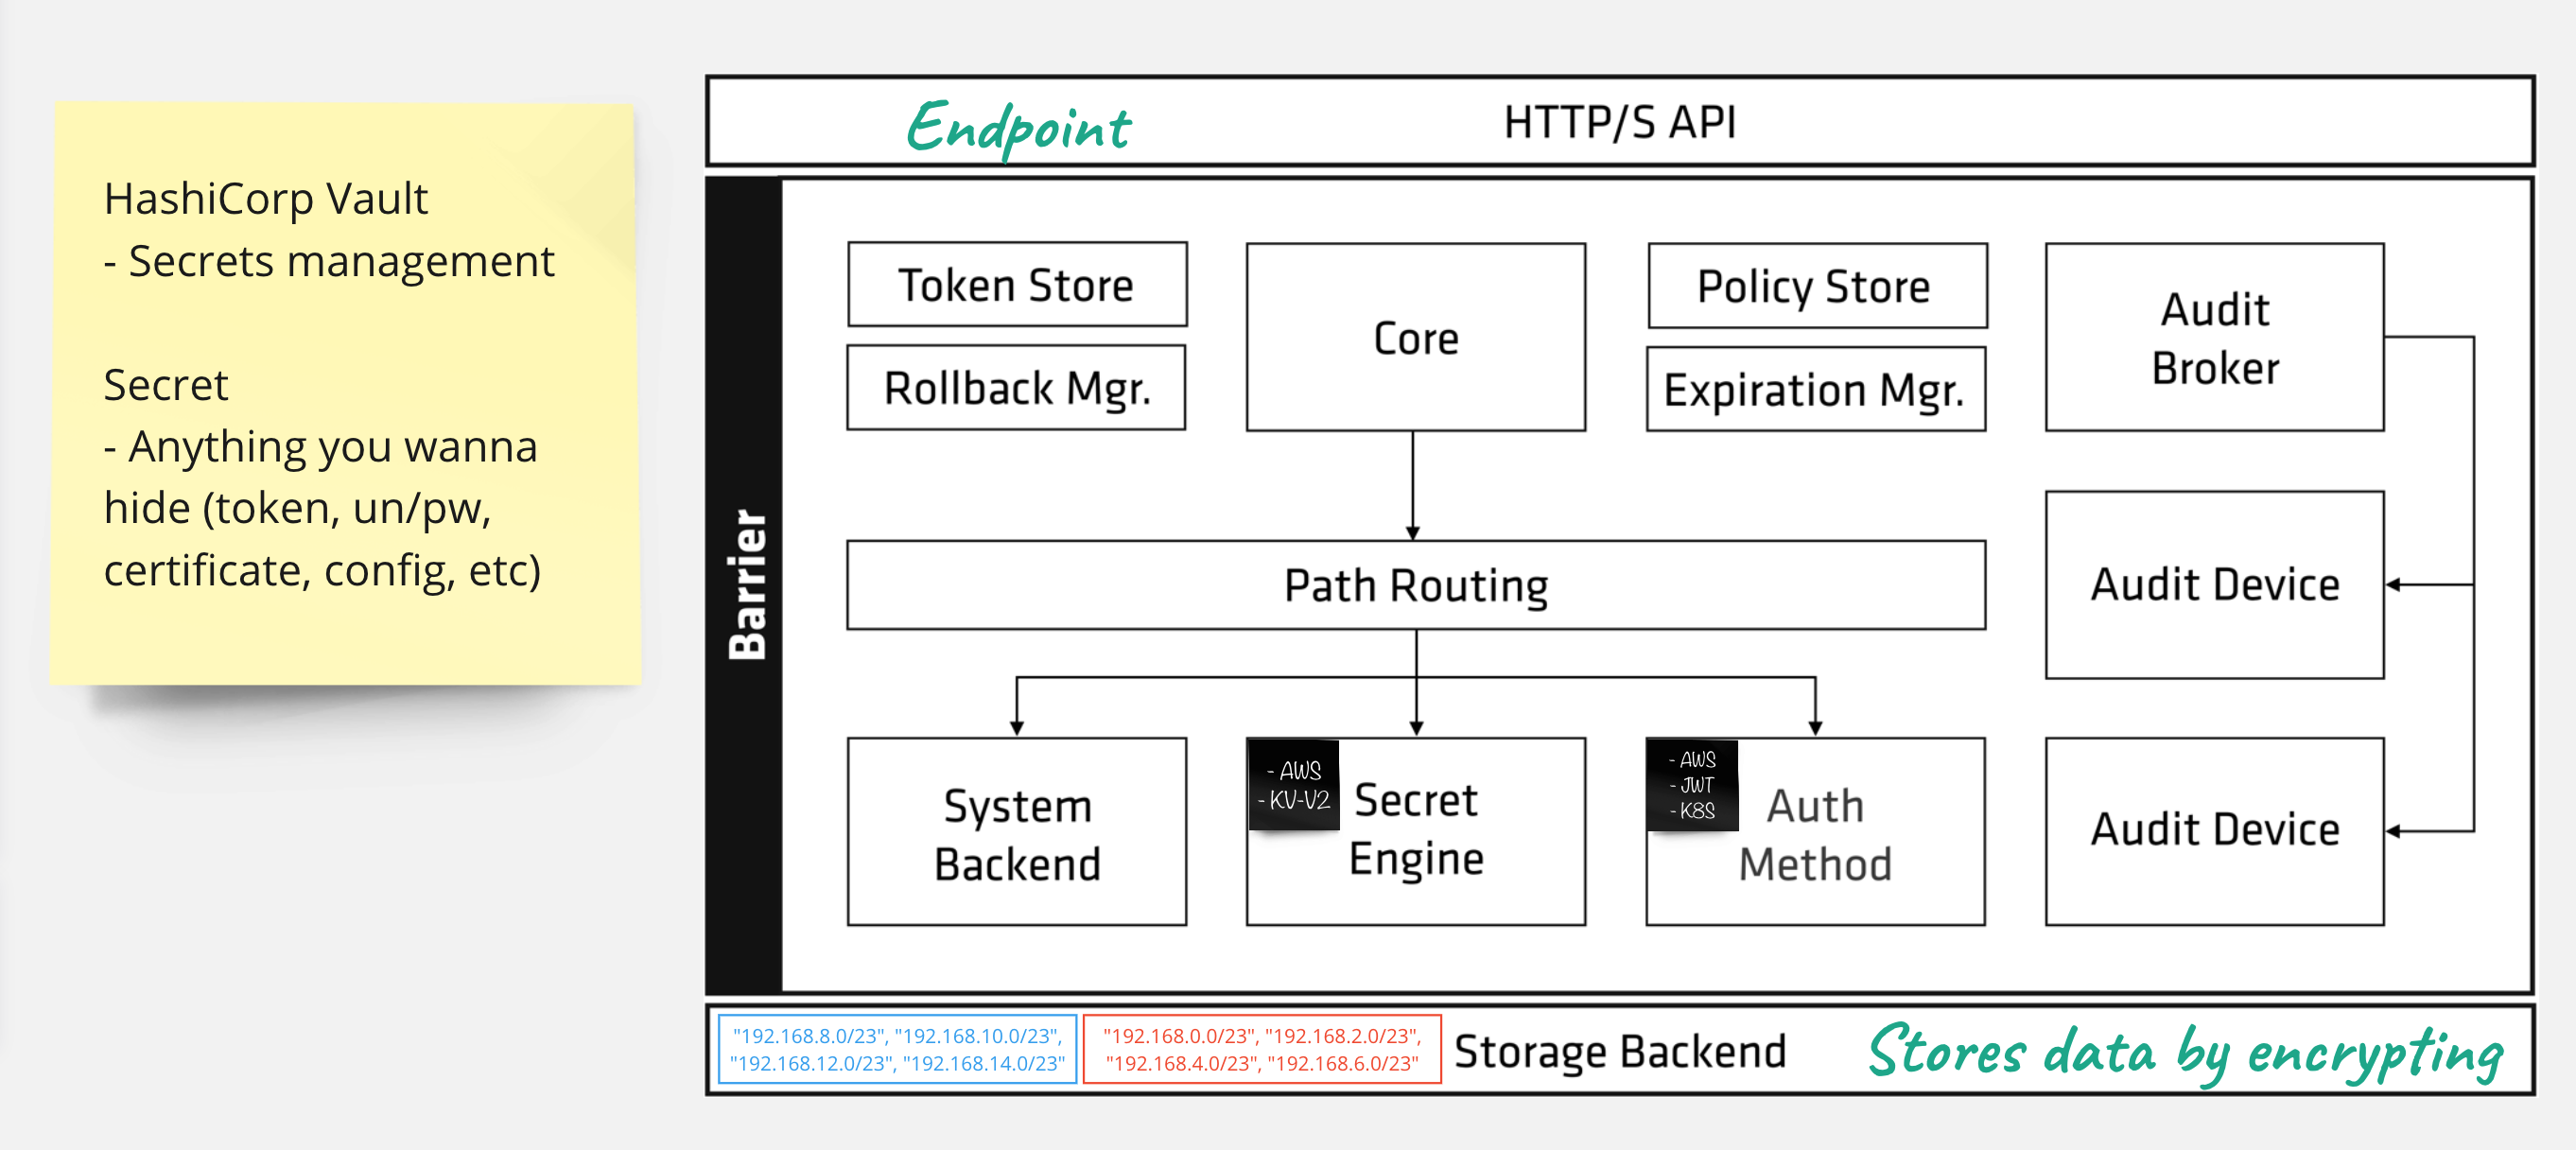
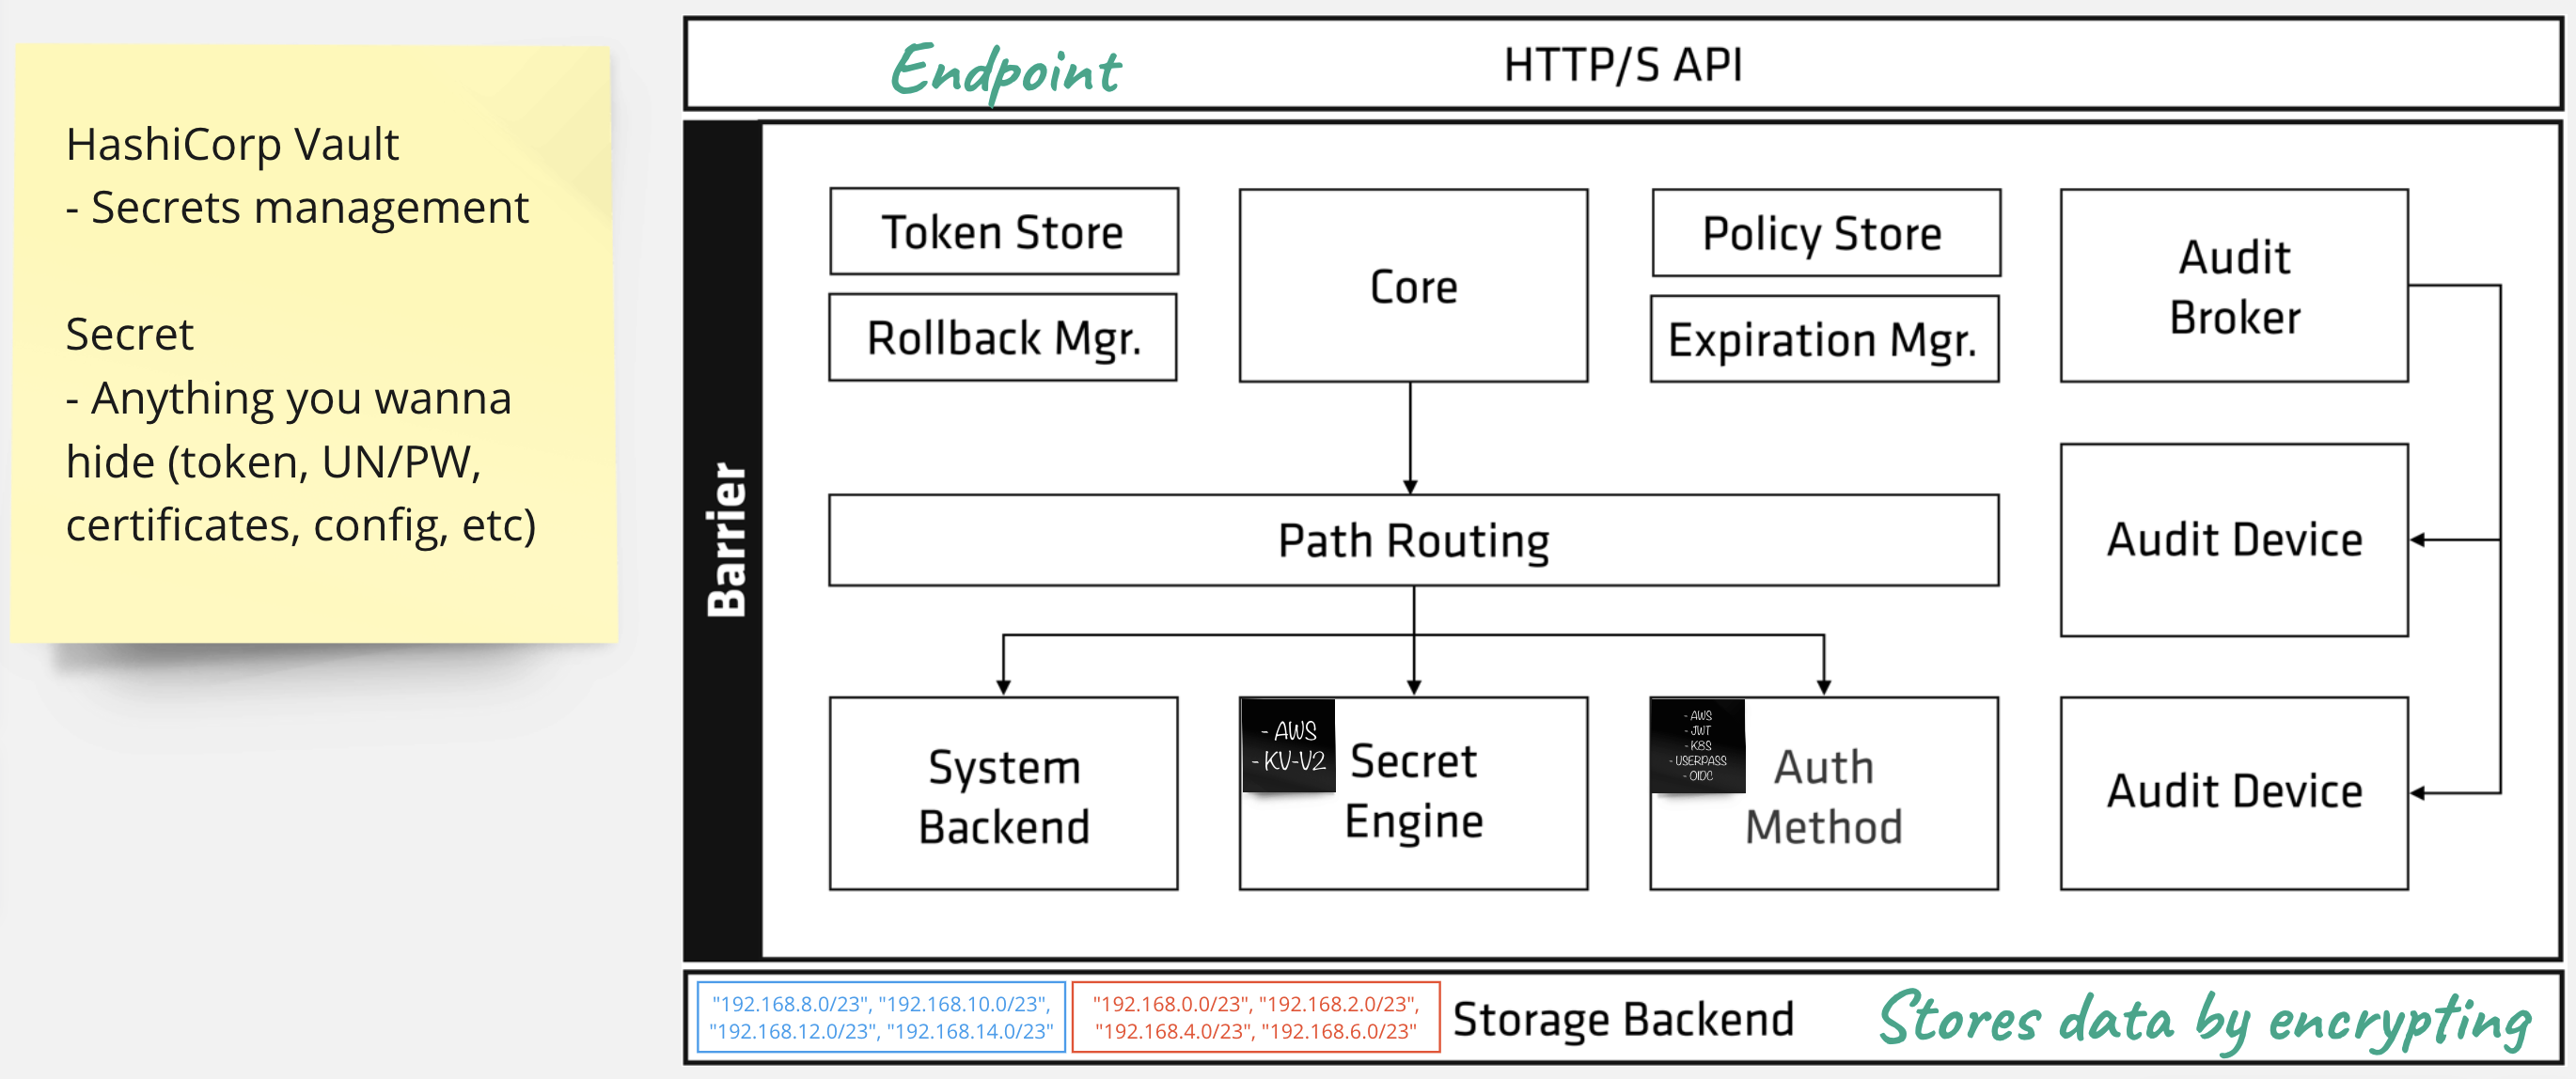
add: auth backend

Changed region(s): [[0.0, 0.0, 0.9985, 1.0], [0.5305, 0.2439, 0.5617, 0.3049]]

diff --git a/README.md b/README.md
@@ -5,9 +5,10 @@
 
 ### Auth Methods
 
+- USERPASS (UI)
+- OIDC (UI)
 - AWS
 - JWT (GitLab, GitHub)
-- USERPASS
 - KUBERNETES
 
 ### Secrets Engines
@@ -51,11 +52,15 @@ No modules.
 | [vault_aws_secret_backend_role.this](https://registry.terraform.io/providers/hashicorp/vault/latest/docs/resources/aws_secret_backend_role) | resource |
 | [vault_aws_secret_backend_role.user](https://registry.terraform.io/providers/hashicorp/vault/latest/docs/resources/aws_secret_backend_role) | resource |
 | [vault_generic_endpoint.users](https://registry.terraform.io/providers/hashicorp/vault/latest/docs/resources/generic_endpoint) | resource |
+| [vault_identity_group.oidc](https://registry.terraform.io/providers/hashicorp/vault/latest/docs/resources/identity_group) | resource |
+| [vault_identity_group_alias.oidc](https://registry.terraform.io/providers/hashicorp/vault/latest/docs/resources/identity_group_alias) | resource |
 | [vault_jwt_auth_backend.gh](https://registry.terraform.io/providers/hashicorp/vault/latest/docs/resources/jwt_auth_backend) | resource |
+| [vault_jwt_auth_backend.oidc](https://registry.terraform.io/providers/hashicorp/vault/latest/docs/resources/jwt_auth_backend) | resource |
 | [vault_jwt_auth_backend.this](https://registry.terraform.io/providers/hashicorp/vault/latest/docs/resources/jwt_auth_backend) | resource |
 | [vault_jwt_auth_backend_role.account](https://registry.terraform.io/providers/hashicorp/vault/latest/docs/resources/jwt_auth_backend_role) | resource |
 | [vault_jwt_auth_backend_role.actions](https://registry.terraform.io/providers/hashicorp/vault/latest/docs/resources/jwt_auth_backend_role) | resource |
 | [vault_jwt_auth_backend_role.actions_sec](https://registry.terraform.io/providers/hashicorp/vault/latest/docs/resources/jwt_auth_backend_role) | resource |
+| [vault_jwt_auth_backend_role.oidc](https://registry.terraform.io/providers/hashicorp/vault/latest/docs/resources/jwt_auth_backend_role) | resource |
 | [vault_jwt_auth_backend_role.secret](https://registry.terraform.io/providers/hashicorp/vault/latest/docs/resources/jwt_auth_backend_role) | resource |
 | [vault_kubernetes_auth_backend_config.kubernetes](https://registry.terraform.io/providers/hashicorp/vault/latest/docs/resources/kubernetes_auth_backend_config) | resource |
 | [vault_kubernetes_auth_backend_role.kubernetes](https://registry.terraform.io/providers/hashicorp/vault/latest/docs/resources/kubernetes_auth_backend_role) | resource |
@@ -69,6 +74,7 @@ No modules.
 |------|-------------|------|---------|:--------:|
 | <a name="input_access_key"></a> [access\_key](#input\_access\_key) | AWS Assumed Role access key | `string` | `"ACCESS_KEY"` | no |
 | <a name="input_access_key_user"></a> [access\_key\_user](#input\_access\_key\_user) | AWS Access Key with necessary permissions | `string` | `"ACCESS_KEY"` | no |
+| <a name="input_allowed_redirect_uris"></a> [allowed\_redirect\_uris](#input\_allowed\_redirect\_uris) | A list of allowed values for `redirect_uri` during OIDC logins | `list(string)` | <pre>[<br>  "http://localhost:8250/oidc/callback"<br>]</pre> | no |
 | <a name="input_auth_backend_role"></a> [auth\_backend\_role](#input\_auth\_backend\_role) | Role that will be used by Vault authenticating AWS | <pre>map(object({<br>    account_id = number<br>    sts_role   = string<br>  }))</pre> | <pre>{<br>  "key": {<br>    "account_id": 123456789012,<br>    "sts_role": "arn:aws:iam::123456789012:role/ROLE_NAME"<br>  }<br>}</pre> | no |
 | <a name="input_auth_backend_role_user"></a> [auth\_backend\_role\_user](#input\_auth\_backend\_role\_user) | If enabled, This Role that will be used by Vault authenticating and performing necessary actions | <pre>map(object({<br>    account_id = number<br>    sts_role   = string<br>  }))</pre> | <pre>{<br>  "key": {<br>    "account_id": 13456789012,<br>    "sts_role": "value"<br>  }<br>}</pre> | no |
 | <a name="input_aws_auth_path"></a> [aws\_auth\_path](#input\_aws\_auth\_path) | AWS Authentication Methods path | `string` | `"aws"` | no |
@@ -102,6 +108,7 @@ No modules.
 | <a name="input_delete_version_after"></a> [delete\_version\_after](#input\_delete\_version\_after) | Old secrets version will be deleted after this seconds (7 days) | `number` | `604800` | no |
 | <a name="input_enabled_gh_jwt_backend"></a> [enabled\_gh\_jwt\_backend](#input\_enabled\_gh\_jwt\_backend) | Enable GitHub JWT Auth Method or not | `bool` | n/a | yes |
 | <a name="input_enabled_gl_jwt_backend"></a> [enabled\_gl\_jwt\_backend](#input\_enabled\_gl\_jwt\_backend) | Enable GitLab JWT Auth Method or not | `bool` | n/a | yes |
+| <a name="input_enabled_oidc_backend"></a> [enabled\_oidc\_backend](#input\_enabled\_oidc\_backend) | Enable OIDC Auth Method or not | `bool` | n/a | yes |
 | <a name="input_gh_acc_bound_aud"></a> [gh\_acc\_bound\_aud](#input\_gh\_acc\_bound\_aud) | URL of the repository owner, eg: `https://github.com/OWNER`, such as the organization that owns the repository. This is the only claim that can be customized | `list(string)` | <pre>[<br>  ""<br>]</pre> | no |
 | <a name="input_gh_acc_bound_claims"></a> [gh\_acc\_bound\_claims](#input\_gh\_acc\_bound\_claims) | https://docs.github.com/en/actions/deployment/security-hardening-your-deployments/about-security-hardening-with-openid-connect#understanding-the-oidc-token | <pre>map(object({<br>    role_name     = string<br>    bound_claims  = optional(map(string))<br>    token_ttl     = number<br>    token_max_ttl = number<br>  }))</pre> | <pre>{<br>  "key1": {<br>    "bound_claims": {<br>      "": ""<br>    },<br>    "role_name": "value",<br>    "token_max_ttl": 600,<br>    "token_ttl": 300<br>  }<br>}</pre> | no |
 | <a name="input_gh_acc_bound_sub"></a> [gh\_acc\_bound\_sub](#input\_gh\_acc\_bound\_sub) | Defines the subject claim that is to be validated by the cloud provider | `string` | `""` | no |
@@ -118,6 +125,7 @@ No modules.
 | <a name="input_gl_jwt_token_type"></a> [gl\_jwt\_token\_type](#input\_gl\_jwt\_token\_type) | `service` token or `batch` token? Default is `service` token | `string` | `"service"` | no |
 | <a name="input_gl_secret_bound_claims"></a> [gl\_secret\_bound\_claims](#input\_gl\_secret\_bound\_claims) | JWT/OIDC auth Method role for Secrets values in a Vault server | <pre>map(object({<br>    role_name    = string<br>    bound_claims = map(string)<br>  }))</pre> | <pre>{<br>  "key": {<br>    "bound_claims": {<br>      "project_id": "123123",<br>      "ref": "main,develop",<br>      "ref_type": "branch"<br>    },<br>    "role_name": "reader-role"<br>  }<br>}</pre> | no |
 | <a name="input_gl_secret_token_policies"></a> [gl\_secret\_token\_policies](#input\_gl\_secret\_token\_policies) | Secrets policy name | `list(string)` | <pre>[<br>  "read-acc_b_creds"<br>]</pre> | no |
+| <a name="input_group_alias_name"></a> [group\_alias\_name](#input\_group\_alias\_name) | Name of the group alias | `string` | `"OIDCAuth"` | no |
 | <a name="input_k8s_config"></a> [k8s\_config](#input\_k8s\_config) | Kubernetes Auth Backend configuration | <pre>map(object({<br>    backend            = string<br>    kubernetes_host    = string<br>    kubernetes_ca_cert = string<br>    token_reviewer_jwt = string<br>    issuer             = string<br>  }))</pre> | <pre>{<br>  "dev-k8s": {<br>    "backend": "dev-k8s",<br>    "issuer": "https://kubernetes.default.svc.cluster.local",<br>    "kubernetes_ca_cert": "-----BEGIN CERTIFICATE-----\nASDFQWERQWERASDFASDQ@#RDFADFASDF\n-----END CERTIFICATE-----",<br>    "kubernetes_host": "https://DEV_K8S_IP:6443",<br>    "token_reviewer_jwt": "eyJhbGciOiJSUzI1NiIJASiadura56tIsImtpZCI6InRreml3.ASDFASOIDJFASDKLFLASDF"<br>  }<br>}</pre> | no |
 | <a name="input_k8s_path"></a> [k8s\_path](#input\_k8s\_path) | Kubernetes Authentication path (Support multi clusters with different paths) | <pre>map(object({<br>    path = string<br>  }))</pre> | <pre>{<br>  "dev-k8s": {<br>    "path": "dev-k8s"<br>  }<br>}</pre> | no |
 | <a name="input_k8s_role"></a> [k8s\_role](#input\_k8s\_role) | Kubernetes role to authenticate Vault | <pre>map(object({<br>    role_name                        = string<br>    backend                          = string<br>    bound_service_account_names      = list(string)<br>    bound_service_account_namespaces = list(string)<br>    token_policies                   = list(string)<br>  }))</pre> | <pre>{<br>  "dev-k8s": {<br>    "backend": "dev-k8s",<br>    "bound_service_account_names": [<br>      "dev-k8s"<br>    ],<br>    "bound_service_account_namespaces": [<br>      "default"<br>    ],<br>    "role_name": "dev-k8s",<br>    "token_policies": [<br>      "default"<br>    ]<br>  }<br>}</pre> | no |
@@ -129,12 +137,24 @@ No modules.
 | <a name="input_max_ttl_gl_jwt"></a> [max\_ttl\_gl\_jwt](#input\_max\_ttl\_gl\_jwt) | Maximum Time To Live | `string` | `"2h"` | no |
 | <a name="input_max_ttl_user"></a> [max\_ttl\_user](#input\_max\_ttl\_user) | Maximum Time To Live for AWS temporary account | `number` | `3600` | no |
 | <a name="input_max_versions"></a> [max\_versions](#input\_max\_versions) | Maximum versions of the secrets | `number` | `100` | no |
+| <a name="input_oidc_client_id"></a> [oidc\_client\_id](#input\_oidc\_client\_id) | OIDC client ID | `string` | `""` | no |
+| <a name="input_oidc_client_sec"></a> [oidc\_client\_sec](#input\_oidc\_client\_sec) | OIDC client ID | `string` | `""` | no |
+| <a name="input_oidc_discovery_url"></a> [oidc\_discovery\_url](#input\_oidc\_discovery\_url) | OIDC discovery URL | `string` | `""` | no |
+| <a name="input_oidc_identity_group_name"></a> [oidc\_identity\_group\_name](#input\_oidc\_identity\_group\_name) | Name of the identity group | `string` | `"OIDCAuth"` | no |
+| <a name="input_oidc_identity_group_policies"></a> [oidc\_identity\_group\_policies](#input\_oidc\_identity\_group\_policies) | Policies for OIDC group to attach | `list(string)` | <pre>[<br>  "reader"<br>]</pre> | no |
+| <a name="input_oidc_identity_type"></a> [oidc\_identity\_type](#input\_oidc\_identity\_type) | Type of the group, `internal` or `external`. Defaults to `internal` | `string` | `"internal"` | no |
+| <a name="input_oidc_path"></a> [oidc\_path](#input\_oidc\_path) | OIDC mount path | `string` | `"oidc"` | no |
+| <a name="input_oidc_role"></a> [oidc\_role](#input\_oidc\_role) | OIDC role | `string` | `"reader"` | no |
+| <a name="input_oidc_scopes"></a> [oidc\_scopes](#input\_oidc\_scopes) | A list of OIDC scopes to be used with an OIDC role | `list(string)` | <pre>[<br>  "openid"<br>]</pre> | no |
+| <a name="input_oidc_token_policies"></a> [oidc\_token\_policies](#input\_oidc\_token\_policies) | A list of policies to encode onto generated tokens for OIDC (create it first unless existing) | `list(string)` | <pre>[<br>  "reader"<br>]</pre> | no |
+| <a name="input_oidc_token_type"></a> [oidc\_token\_type](#input\_oidc\_token\_type) | OIDC token type | `string` | `"default-service"` | no |
 | <a name="input_region"></a> [region](#input\_region) | Region that Vault residing | `string` | `"us-east-1"` | no |
 | <a name="input_region_user"></a> [region\_user](#input\_region\_user) | Region that Vault residing | `string` | `"us-east-1"` | no |
 | <a name="input_secret_backend_role"></a> [secret\_backend\_role](#input\_secret\_backend\_role) | Create and use STS Assumed Role by Vault performing necessary actions respectively | <pre>map(object({<br>    name      = string<br>    role_arns = list(string)<br>  }))</pre> | <pre>{<br>  "key": {<br>    "name": "aws",<br>    "role_arns": [<br>      "arn:aws:iam::123456789012:role/ROLE_NAME"<br>    ]<br>  }<br>}</pre> | no |
 | <a name="input_secret_backend_role_user"></a> [secret\_backend\_role\_user](#input\_secret\_backend\_role\_user) | IAM User with defined IAM permission policy respectively | <pre>map(object({<br>    name            = string<br>    policy_document = any<br>  }))</pre> | <pre>{<br>  "key": {<br>    "name": "value",<br>    "policy_document": {}<br>  }<br>}</pre> | no |
 | <a name="input_secret_key"></a> [secret\_key](#input\_secret\_key) | AWS Assumed Role User secret key | `string` | `"SECRET_KEY"` | no |
 | <a name="input_secret_key_user"></a> [secret\_key\_user](#input\_secret\_key\_user) | AWS Secret Key with necessary permissions | `string` | `"SECRET_KEY"` | no |
+| <a name="input_tags"></a> [tags](#input\_tags) | Tag what it is about | `map(string)` | <pre>{<br>  "Organization": "OSS"<br>}</pre> | no |
 | <a name="input_userpass_path"></a> [userpass\_path](#input\_userpass\_path) | Mount path for `Userpass` auth method | `string` | `"userpass"` | no |
 | <a name="input_users_path"></a> [users\_path](#input\_users\_path) | The full logical path with `username` suffix | <pre>map(object({<br>    path      = string<br>    data_json = any<br>  }))</pre> | <pre>{<br>  "user1": {<br>    "data_json": "        {\n          \"policies\": [\"POLICY\"],\n          \"password\": \"PASSWORD\"\n        }\n",<br>    "path": "auth/userpass/users/USERNAME"<br>  }<br>}</pre> | no |
 | <a name="input_vault_policy"></a> [vault\_policy](#input\_vault\_policy) | Policy to read secret by path | <pre>map(object({<br>    name   = string<br>    policy = any<br>  }))</pre> | <pre>{<br>  "key1": {<br>    "name": "reader",<br>    "policy": "        ## Policy for only reading secrets in this path\n        path \"tfvars/data/*\"\n        {\n            capabilities = [\"read\"]\n        }\n"<br>  }<br>}</pre> | no |